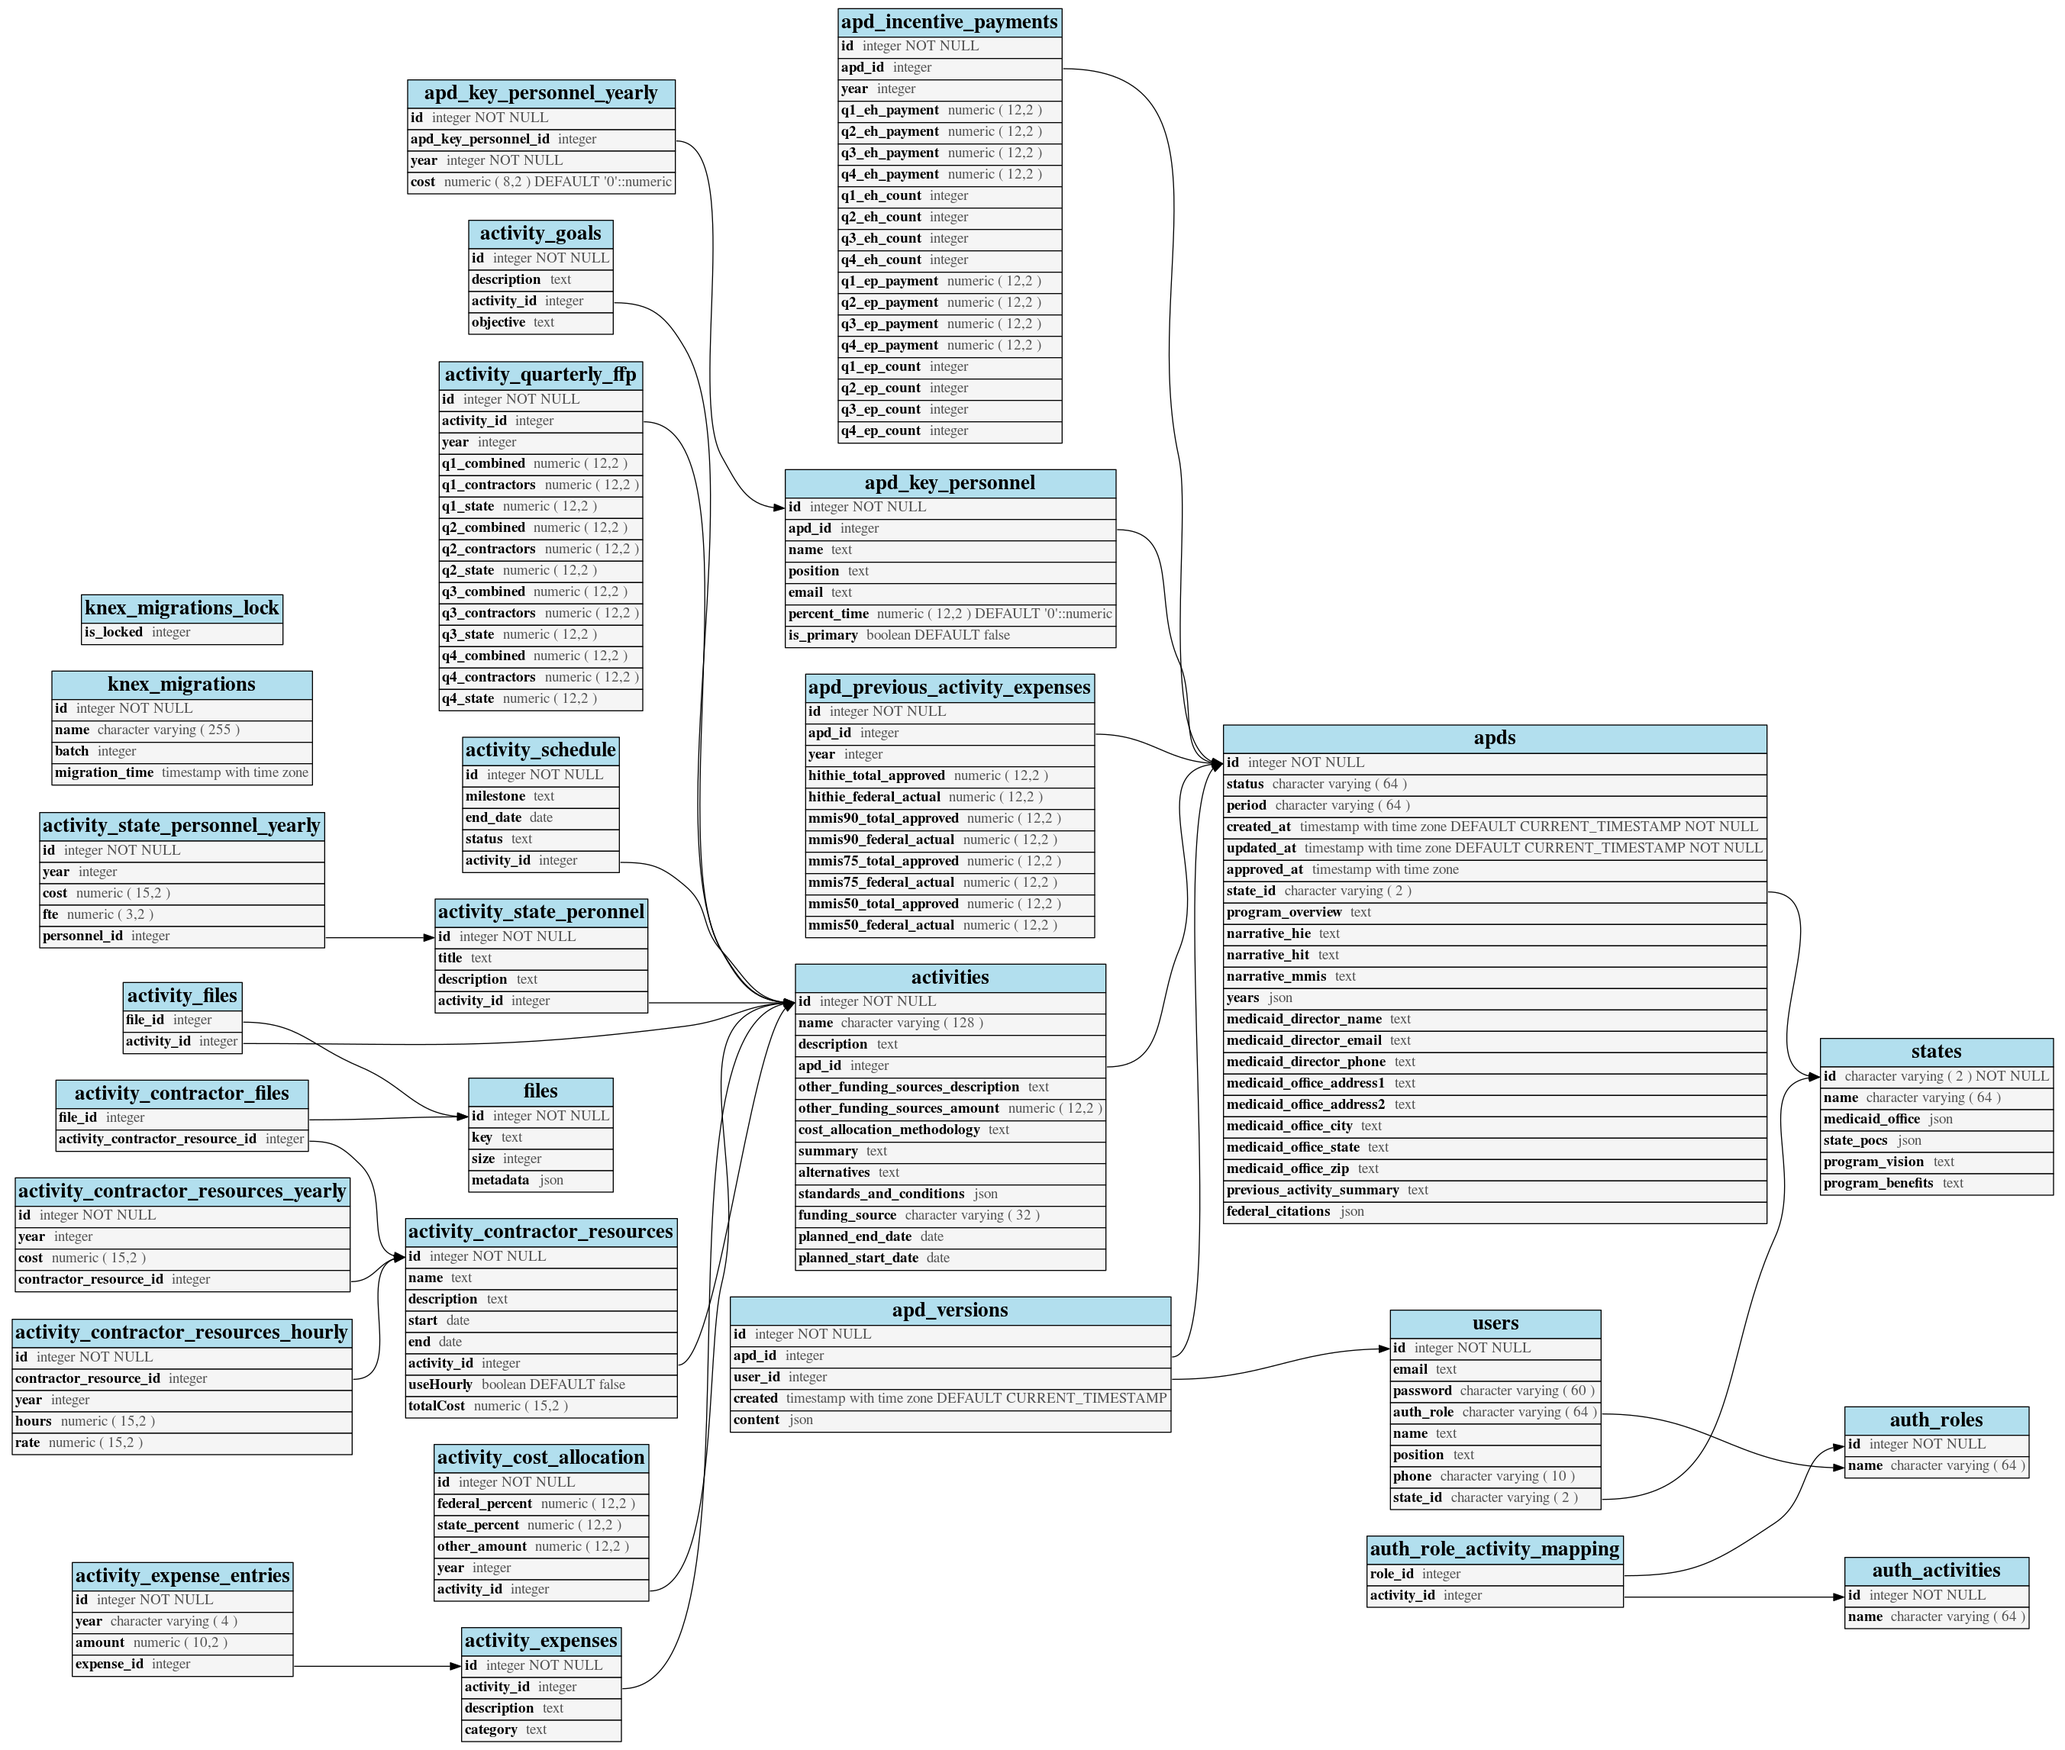
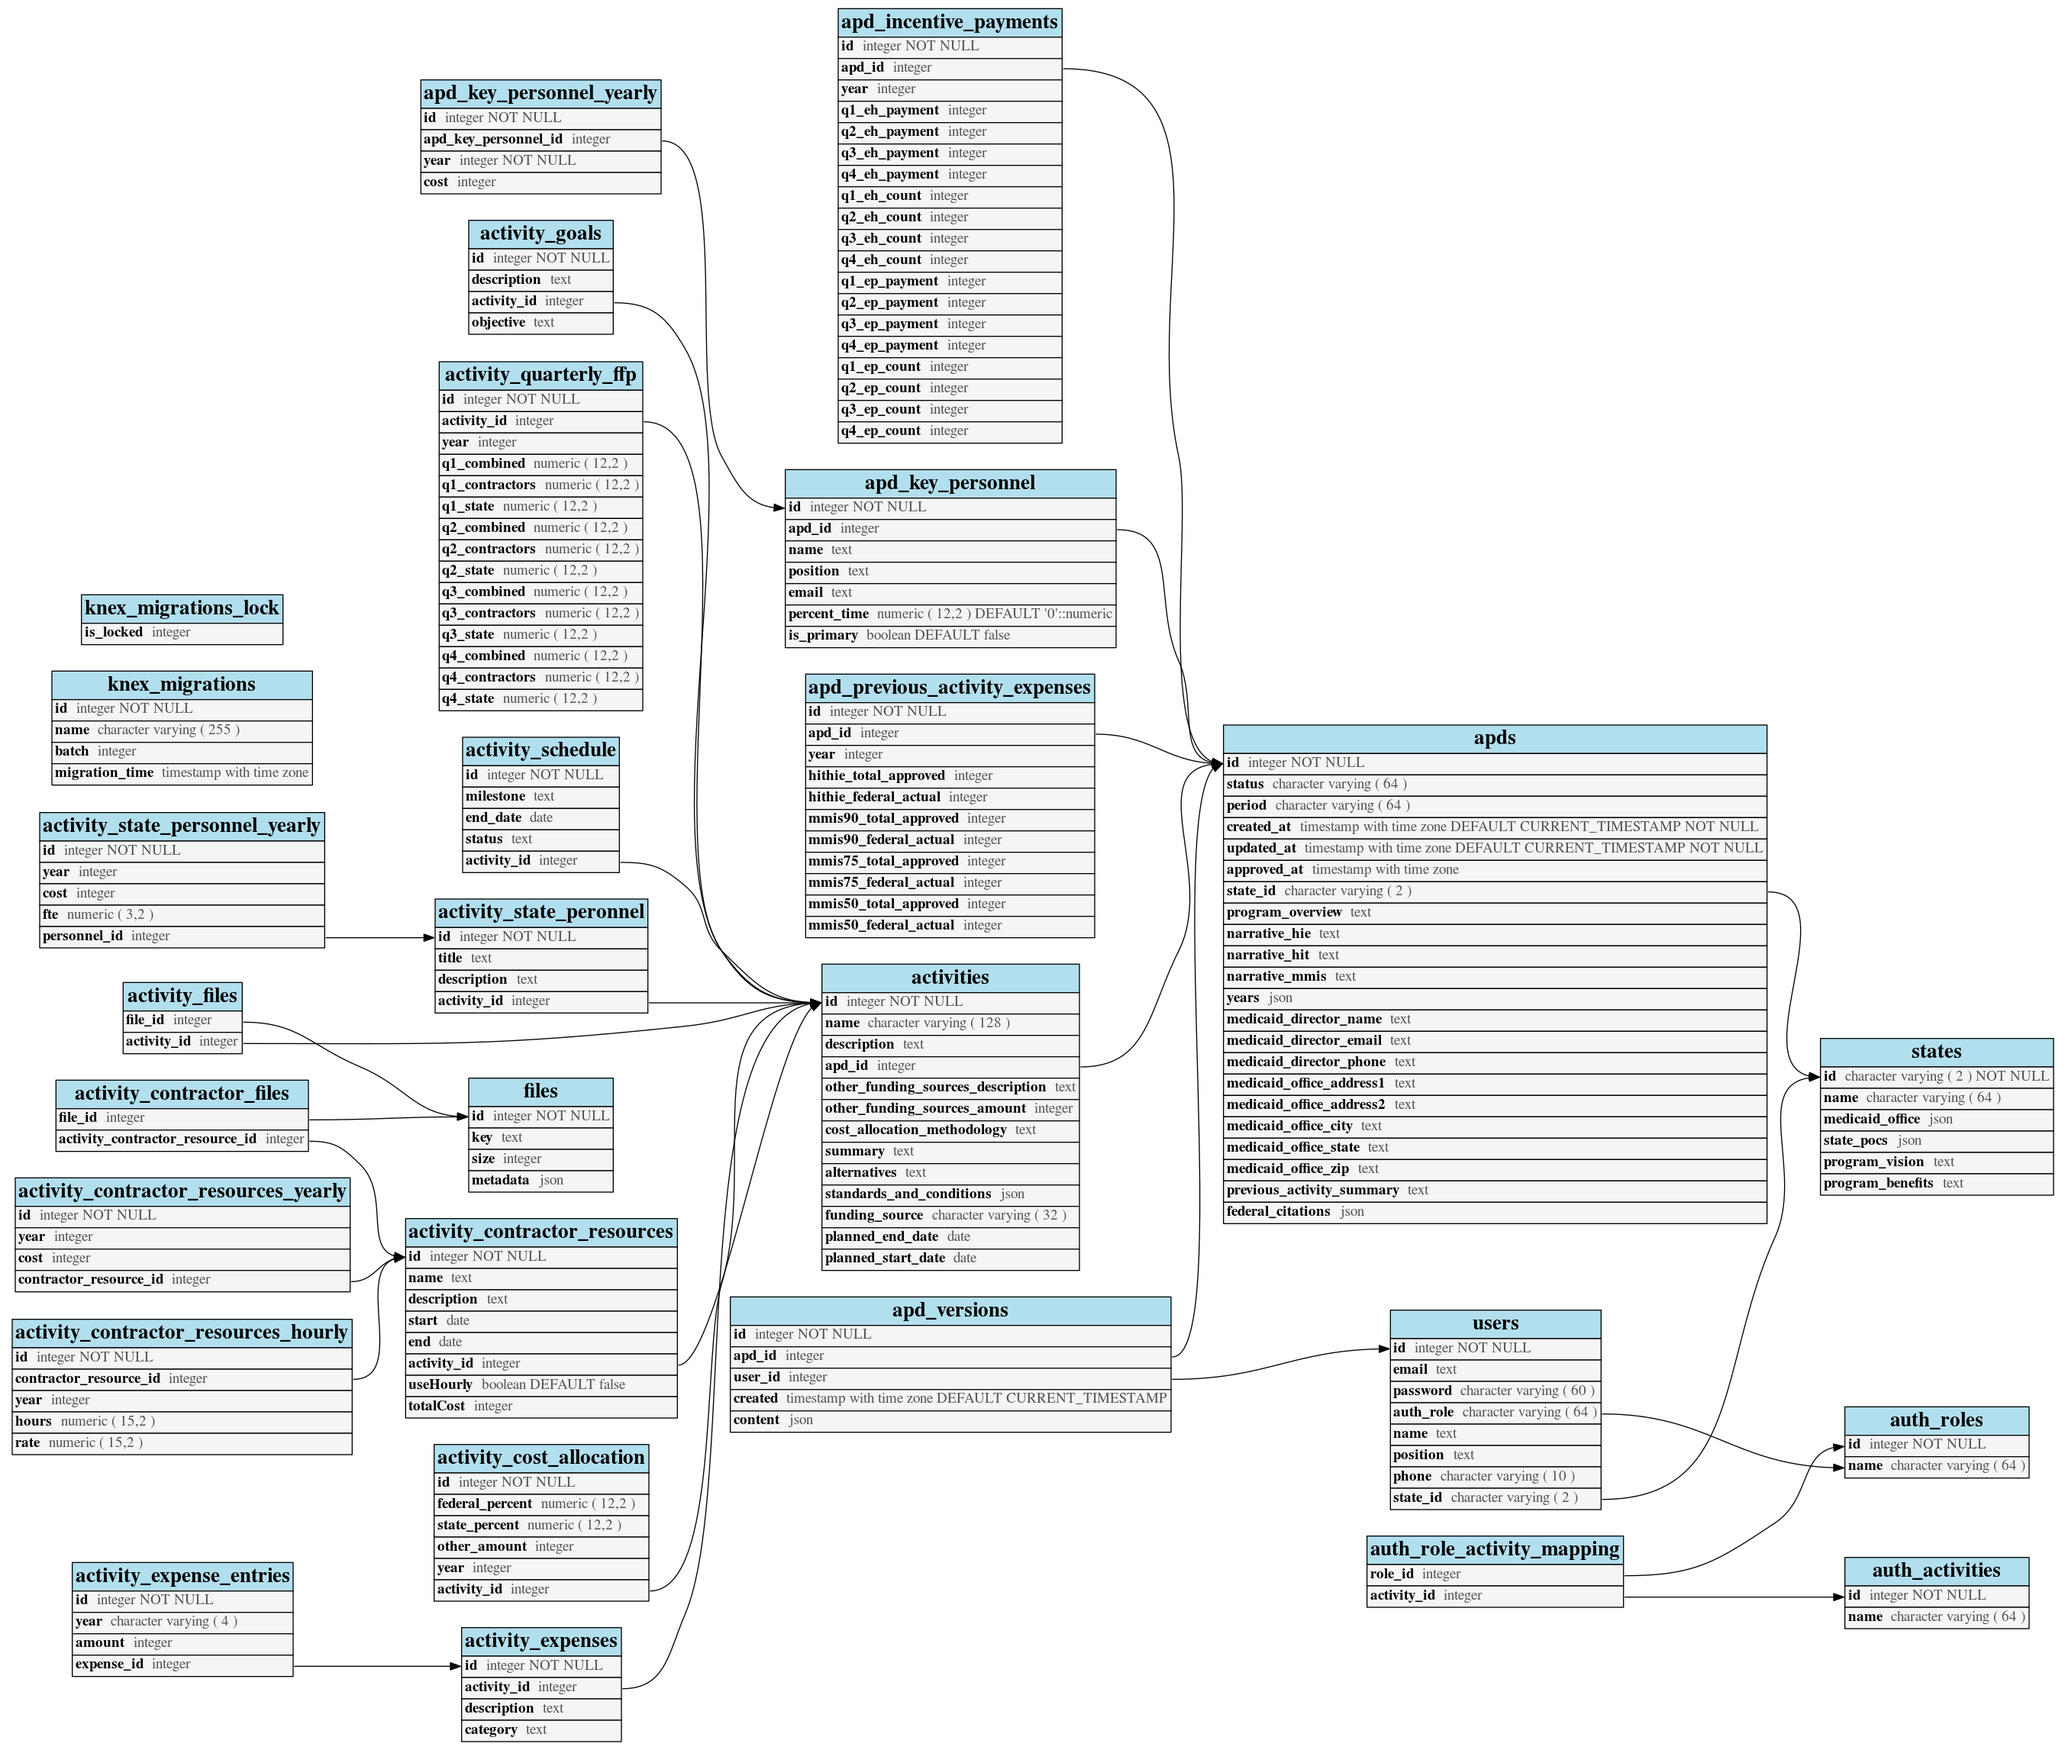
turn db dollar columns into integers

diff --git a/api/migrations/20181121172909_convert-dollar-columns-to-int.js b/api/migrations/20181121172909_convert-dollar-columns-to-int.js
@@ -1,0 +1,52 @@
+exports.up = async knex => {
+  await knex.schema.alterTable('activities', table => {
+    table.integer('other_funding_sources_amount').alter();
+  });
+
+  await knex.schema.alterTable('activity_contractor_resources', table => {
+    table.integer('totalCost').alter();
+  });
+  await knex.schema.alterTable(
+    'activity_contractor_resources_yearly',
+    table => {
+      table.integer('cost').alter();
+    }
+  );
+  await knex.schema.alterTable('activity_cost_allocation', table => {
+    table.integer('other_amount').alter();
+  });
+  await knex.schema.alterTable('activity_expense_entries', table => {
+    table.integer('amount').alter();
+  });
+  await knex.schema.alterTable('activity_state_personnel_yearly', table => {
+    table.integer('cost').alter();
+  });
+
+  await knex.schema.alterTable('apd_incentive_payments', table => {
+    table.integer('q1_eh_payment').alter();
+    table.integer('q2_eh_payment').alter();
+    table.integer('q3_eh_payment').alter();
+    table.integer('q4_eh_payment').alter();
+    table.integer('q1_ep_payment').alter();
+    table.integer('q2_ep_payment').alter();
+    table.integer('q3_ep_payment').alter();
+    table.integer('q4_ep_payment').alter();
+  });
+
+  await knex.schema.alterTable('apd_key_personnel_yearly', table => {
+    table.integer('cost').alter();
+  });
+
+  await knex.schema.alterTable('apd_previous_activity_expenses', table => {
+    table.integer('hithie_total_approved').alter();
+    table.integer('hithie_federal_actual').alter();
+    table.integer('mmis90_total_approved').alter();
+    table.integer('mmis90_federal_actual').alter();
+    table.integer('mmis75_total_approved').alter();
+    table.integer('mmis75_federal_actual').alter();
+    table.integer('mmis50_total_approved').alter();
+    table.integer('mmis50_federal_actual').alter();
+  });
+};
+
+exports.down = async () => {};

diff --git a/api/db/apdIncentivePayment.test.js b/api/db/apdIncentivePayment.test.js
@@ -92,21 +92,21 @@ tap.test('apd incentive payments data model', async tests => {
   tests.test('overrides toJSON method', async test => {
     const self = { get: sinon.stub(), related: sinon.stub() };
     self.get.returns('--- unknown field ---');
-    self.get.withArgs('q1_eh_payment').returns('1');
+    self.get.withArgs('q1_eh_payment').returns(1);
     self.get.withArgs('q1_eh_count').returns(2);
-    self.get.withArgs('q1_ep_payment').returns('3');
+    self.get.withArgs('q1_ep_payment').returns(3);
     self.get.withArgs('q1_ep_count').returns(4);
-    self.get.withArgs('q2_eh_payment').returns('10');
+    self.get.withArgs('q2_eh_payment').returns(10);
     self.get.withArgs('q2_eh_count').returns(20);
-    self.get.withArgs('q2_ep_payment').returns('30');
+    self.get.withArgs('q2_ep_payment').returns(30);
     self.get.withArgs('q2_ep_count').returns(40);
-    self.get.withArgs('q3_eh_payment').returns('100');
+    self.get.withArgs('q3_eh_payment').returns(100);
     self.get.withArgs('q3_eh_count').returns(200);
-    self.get.withArgs('q3_ep_payment').returns('300');
+    self.get.withArgs('q3_ep_payment').returns(300);
     self.get.withArgs('q3_ep_count').returns(400);
-    self.get.withArgs('q4_eh_payment').returns('1000');
+    self.get.withArgs('q4_eh_payment').returns(1000);
     self.get.withArgs('q4_eh_count').returns(2000);
-    self.get.withArgs('q4_ep_payment').returns('3000');
+    self.get.withArgs('q4_ep_payment').returns(3000);
     self.get.withArgs('q4_ep_count').returns(4000);
     self.get.withArgs('year').returns('year');
 

diff --git a/api/db/apdPreviousActivityExpense.test.js b/api/db/apdPreviousActivityExpense.test.js
@@ -82,14 +82,14 @@ tap.test('apd previous activity expense data model', async tests => {
   tests.test('overrides toJSON method', async test => {
     const self = { get: sinon.stub(), related: sinon.stub() };
     self.get.returns('--- unknown field ---');
-    self.get.withArgs('hithie_federal_actual').returns('100');
-    self.get.withArgs('hithie_total_approved').returns('200');
-    self.get.withArgs('mmis90_federal_actual').returns('300');
-    self.get.withArgs('mmis90_total_approved').returns('400');
-    self.get.withArgs('mmis75_federal_actual').returns('1000');
-    self.get.withArgs('mmis75_total_approved').returns('2000');
-    self.get.withArgs('mmis50_federal_actual').returns('3000');
-    self.get.withArgs('mmis50_total_approved').returns('4000');
+    self.get.withArgs('hithie_federal_actual').returns(100);
+    self.get.withArgs('hithie_total_approved').returns(200);
+    self.get.withArgs('mmis90_federal_actual').returns(300);
+    self.get.withArgs('mmis90_total_approved').returns(400);
+    self.get.withArgs('mmis75_federal_actual').returns(1000);
+    self.get.withArgs('mmis75_total_approved').returns(2000);
+    self.get.withArgs('mmis50_federal_actual').returns(3000);
+    self.get.withArgs('mmis50_total_approved').returns(4000);
     self.get.withArgs('year').returns('year');
 
     const output = expense.toJSON.bind(self)();

diff --git a/api/db/apdIncentivePayment.js b/api/db/apdIncentivePayment.js
@@ -30,27 +30,27 @@ module.exports = () => ({
     toJSON() {
       return {
         q1: {
-          ehPayment: +this.get('q1_eh_payment'),
+          ehPayment: this.get('q1_eh_payment'),
           ehCount: this.get('q1_eh_count'),
-          epPayment: +this.get('q1_ep_payment'),
+          epPayment: this.get('q1_ep_payment'),
           epCount: this.get('q1_ep_count')
         },
         q2: {
-          ehPayment: +this.get('q2_eh_payment'),
+          ehPayment: this.get('q2_eh_payment'),
           ehCount: this.get('q2_eh_count'),
-          epPayment: +this.get('q2_ep_payment'),
+          epPayment: this.get('q2_ep_payment'),
           epCount: this.get('q2_ep_count')
         },
         q3: {
-          ehPayment: +this.get('q3_eh_payment'),
+          ehPayment: this.get('q3_eh_payment'),
           ehCount: this.get('q3_eh_count'),
-          epPayment: +this.get('q3_ep_payment'),
+          epPayment: this.get('q3_ep_payment'),
           epCount: this.get('q3_ep_count')
         },
         q4: {
-          ehPayment: +this.get('q4_eh_payment'),
+          ehPayment: this.get('q4_eh_payment'),
           ehCount: this.get('q4_eh_count'),
-          epPayment: +this.get('q4_ep_payment'),
+          epPayment: this.get('q4_ep_payment'),
           epCount: this.get('q4_ep_count')
         },
         year: `${this.get('year')}`

diff --git a/api/db/apdPreviousActivityExpense.js b/api/db/apdPreviousActivityExpense.js
@@ -26,21 +26,21 @@ module.exports = () => ({
     toJSON() {
       return {
         hithie: {
-          federalActual: +this.get('hithie_federal_actual'),
-          totalApproved: +this.get('hithie_total_approved')
+          federalActual: this.get('hithie_federal_actual'),
+          totalApproved: this.get('hithie_total_approved')
         },
         mmis: {
           '90': {
-            federalActual: +this.get('mmis90_federal_actual'),
-            totalApproved: +this.get('mmis90_total_approved')
+            federalActual: this.get('mmis90_federal_actual'),
+            totalApproved: this.get('mmis90_total_approved')
           },
           '75': {
-            federalActual: +this.get('mmis75_federal_actual'),
-            totalApproved: +this.get('mmis75_total_approved')
+            federalActual: this.get('mmis75_federal_actual'),
+            totalApproved: this.get('mmis75_total_approved')
           },
           '50': {
-            federalActual: +this.get('mmis50_federal_actual'),
-            totalApproved: +this.get('mmis50_total_approved')
+            federalActual: this.get('mmis50_federal_actual'),
+            totalApproved: this.get('mmis50_total_approved')
           }
         },
         year: `${this.get('year')}`

diff --git a/web/src/util/serialization/activities.test.js b/web/src/util/serialization/activities.test.js
@@ -76,10 +76,7 @@ describe('APD activity serializer', () => {
             start: 'start 1',
             end: 'end 1',
             files: [{ id: 'contractor 1 file' }],
-            years: [
-              { year: '2018', cost: '1000' },
-              { year: '2019', cost: '2000' }
-            ],
+            years: [{ year: '2018', cost: 1000 }, { year: '2019', cost: 2000 }],
             useHourly: false,
             hourlyData: [
               { year: '2018', hours: 10, rate: 100 },
@@ -93,10 +90,7 @@ describe('APD activity serializer', () => {
             start: 'start 2',
             end: 'end 2',
             files: [{ id: 'contractor 2 file' }],
-            years: [
-              { year: '2018', cost: '3000' },
-              { year: '2019', cost: '4000' }
-            ],
+            years: [{ year: '2018', cost: 3000 }, { year: '2019', cost: 4000 }],
             useHourly: true,
             hourlyData: [
               { year: '2018', hours: 30, rate: 300 },

diff --git a/api/routes/openAPI/index.js b/api/routes/openAPI/index.js
@@ -121,7 +121,7 @@ module.exports = {
                   'When the contractor resource will end work; date only'
               },
               totalCost: {
-                type: 'string',
+                type: 'number',
                 description: 'Contractor resource total cost'
               },
               useHourly: {
@@ -138,7 +138,7 @@ module.exports = {
                     description: 'Year this detail applies to'
                   },
                   cost: {
-                    type: 'string',
+                    type: 'number',
                     description: 'Contractor resource cost of the year'
                   }
                 }

diff --git a/web/src/util/serialization/activities.js b/web/src/util/serialization/activities.js
@@ -127,7 +127,7 @@ export const fromAPI = (activityAPI, years) => {
       years: c.years.reduce(
         (acc, y) => ({
           ...acc,
-          [y.year]: +y.cost
+          [y.year]: y.cost
         }),
         {}
       ),
@@ -165,7 +165,7 @@ export const fromAPI = (activityAPI, years) => {
       years: e.entries.reduce(
         (acc, y) => ({
           ...acc,
-          [y.year]: +y.amount
+          [y.year]: y.amount
         }),
         {}
       )
